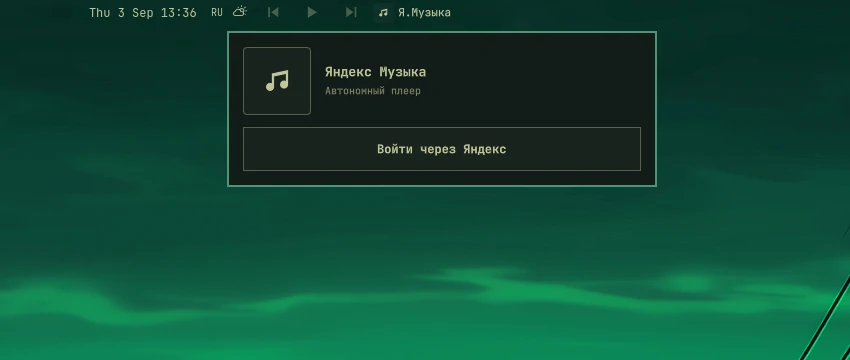
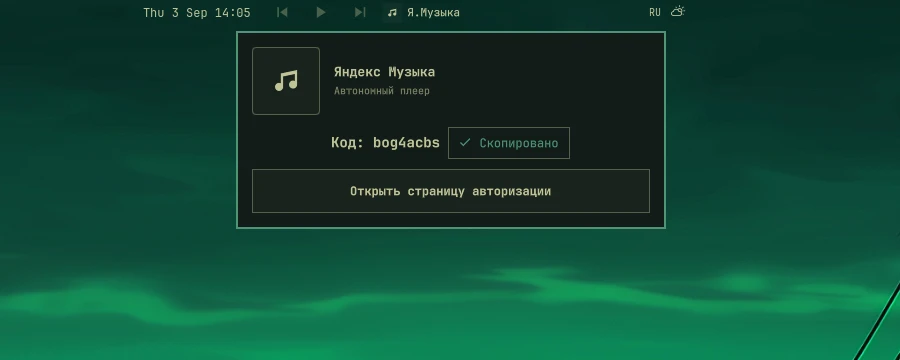
Add OAuth code copy action

diff --git a/Panel.qml b/Panel.qml
@@ -17,6 +17,7 @@ Panel {
   property bool settingsOpen: false
   property bool confirmLogout: false
   property bool waveOptionsOpen: false
+  property string copiedAuthCode: ""
   readonly property string cli: Quickshell.env("HOME") + "/.local/bin/omarchy-yandex-music"
   property var data: ({ authenticated: false, playlists: [], searchResults: [] })
   property string lastError: ""
@@ -85,6 +86,13 @@ Panel {
   function preference(key, fallback) {
     var preferences = data.preferences || {}
     return preferences[key] === undefined ? fallback : preferences[key]
+  }
+  function copyAuthCode() {
+    var code = String(data.authCode || "").trim()
+    if (code === "") return
+    Quickshell.execDetached(["bash", "-c", "printf %s " + Util.shellQuote(code) + " | wl-copy"])
+    copiedAuthCode = code
+    authCodeCopiedTimer.restart()
   }
   function setPreference(key, value) {
     if (settingsProcess.running) return
@@ -306,6 +314,12 @@ Panel {
   }
   Timer { id: settleTimer; interval: 350; repeat: false; onTriggered: root.refresh() }
   Timer { id: queueScrollTimer; interval: 120; repeat: false; onTriggered: root.scrollToCurrentTrack() }
+  Timer {
+    id: authCodeCopiedTimer
+    interval: 1800
+    repeat: false
+    onTriggered: root.copiedAuthCode = ""
+  }
 
   component SkeletonList: Column {
     id: skeletonRoot
@@ -401,6 +415,8 @@ Panel {
         if (t === "1") root.selectPage(0)
         else if (t === "2") root.selectPage(1)
         else if (t === "3" || t === "/") root.selectPage(2)
+        else if ((t === "c" || t === "с") && !root.authenticated
+            && String(root.data.authCode || "") !== "") root.copyAuthCode()
         else if (t === " " && root.hasTrack) root.action("pause")
         else if ((t === "l" || t === "д") && root.hasTrack) root.action("like")
       }
@@ -555,11 +571,26 @@ Panel {
 
           Column {
             visible: !root.authenticated; width: parent.width; spacing: Style.space(10)
-            Text {
+            Row {
               visible: root.data.authPending === true && String(root.data.authCode || "") !== ""
-              width: parent.width; horizontalAlignment: Text.AlignHCenter
-              text: "Код: " + root.data.authCode; color: root.foreground
-              font.family: root.fontFamily; font.pixelSize: Style.font.title; font.bold: true
+              anchors.horizontalCenter: parent.horizontalCenter
+              spacing: Style.space(8)
+
+              Text {
+                anchors.verticalCenter: parent.verticalCenter
+                text: "Код: " + root.data.authCode; color: root.foreground
+                font.family: root.fontFamily; font.pixelSize: Style.font.title; font.bold: true
+              }
+              Button {
+                width: Style.space(122); height: Style.space(32)
+                anchors.verticalCenter: parent.verticalCenter
+                text: root.copiedAuthCode === String(root.data.authCode || "") ? "Скопировано" : "Копировать"
+                iconText: root.copiedAuthCode === String(root.data.authCode || "") ? "" : ""
+                tooltipText: "Скопировать код авторизации"
+                foreground: root.copiedAuthCode === String(root.data.authCode || "") ? Color.accent : root.foreground
+                bordered: true
+                onClicked: root.copyAuthCode()
+              }
             }
             BorderSurface {
               width: parent.width; height: Style.space(44); radius: Style.cornerRadius

diff --git a/README.ru.md b/README.ru.md
@@ -119,7 +119,7 @@ omarchy plugin add https://github.com/vornashev/omarchy-yandex-music.git --enabl
 - `~/.local/bin/omarchy-yandex-music`
 - `~/.config/systemd/user/omarchy-yandex-music.service`
 
-После установки нажмите на плеер в баре и подтвердите Device OAuth через Яндекс. После авторизации браузер можно закрыть.
+После установки нажмите на плеер в баре, запустите Device OAuth и скопируйте показанный код кнопкой рядом с ним перед переходом на страницу Яндекса. После авторизации браузер можно закрыть.
 
 ## Горячие клавиши
 
@@ -128,6 +128,7 @@ omarchy plugin add https://github.com/vornashev/omarchy-yandex-music.git --enabl
 - `1`, `2`, `3` — «Сейчас», «Медиатека», «Поиск»;
 - `Space` — Play/Pause;
 - `L` — поставить или убрать лайк;
+- `C` — скопировать код Device OAuth во время авторизации;
 - `Escape` — вернуться из настроек или закрыть попап.
 
 Аппаратные медиаклавиши работают через MPRIS.

diff --git a/CHANGELOG.ru.md b/CHANGELOG.ru.md
@@ -4,6 +4,13 @@
 
 Формат основан на [Keep a Changelog](https://keepachangelog.com/ru/1.1.0/).
 
+## [0.7.2] — 2026-09-03
+
+### Добавлено
+
+- Кнопка и горячая клавиша `C` для копирования кода Яндекс Device OAuth
+- Краткое визуальное подтверждение после копирования кода авторизации в буфер обмена
+
 ## [0.7.1] — 2026-09-03
 
 ### Добавлено
@@ -85,6 +92,7 @@
 - Первый публичный релиз
 - Device OAuth, фоновое воспроизведение через `mpv`, медиатека, поиск, очередь и сохранение состояния
 
+[0.7.2]: https://github.com/vornashev/omarchy-yandex-music/compare/v0.7.1...v0.7.2
 [0.7.1]: https://github.com/vornashev/omarchy-yandex-music/compare/v0.7.0...v0.7.1
 [0.7.0]: https://github.com/vornashev/omarchy-yandex-music/compare/v0.6.0...v0.7.0
 [0.6.0]: https://github.com/vornashev/omarchy-yandex-music/compare/v0.5.0...v0.6.0

diff --git a/CHANGELOG.md b/CHANGELOG.md
@@ -4,6 +4,13 @@
 
 All notable changes to this project are documented here. The format follows [Keep a Changelog](https://keepachangelog.com/en/1.1.0/).
 
+## [0.7.2] - 2026-09-03
+
+### Added
+
+- Copy button and `C` keyboard shortcut for the Yandex Device OAuth code
+- Short visual confirmation after the authorization code is copied to the clipboard
+
 ## [0.7.1] - 2026-09-03
 
 ### Added
@@ -85,6 +92,7 @@ All notable changes to this project are documented here. The format follows [Kee
 - Initial public release
 - Device OAuth, background `mpv` playback, library, search, queue, and persistent state
 
+[0.7.2]: https://github.com/vornashev/omarchy-yandex-music/compare/v0.7.1...v0.7.2
 [0.7.1]: https://github.com/vornashev/omarchy-yandex-music/compare/v0.7.0...v0.7.1
 [0.7.0]: https://github.com/vornashev/omarchy-yandex-music/compare/v0.6.0...v0.7.0
 [0.6.0]: https://github.com/vornashev/omarchy-yandex-music/compare/v0.5.0...v0.6.0

diff --git a/README.md b/README.md
@@ -119,7 +119,7 @@ No manual `git clone`, `cd`, or `sudo` is required. On its first load, the plugi
 - `~/.local/bin/omarchy-yandex-music`
 - `~/.config/systemd/user/omarchy-yandex-music.service`
 
-After installation, click the player in the bar and complete Yandex Device OAuth in your browser. The browser can then be closed.
+After installation, click the player in the bar, start Yandex Device OAuth, and use the button beside the displayed code to copy it before opening the authorization page. The browser can be closed after sign-in.
 
 ## Keyboard shortcuts
 
@@ -128,6 +128,7 @@ Inside the popup:
 - `1`, `2`, `3` — Now Playing, Library, Search
 - `Space` — play/pause
 - `L` — like/unlike
+- `C` — copy the Device OAuth code while signing in
 - `Escape` — return from settings or close the popup
 
 Hardware media keys are handled through MPRIS.
